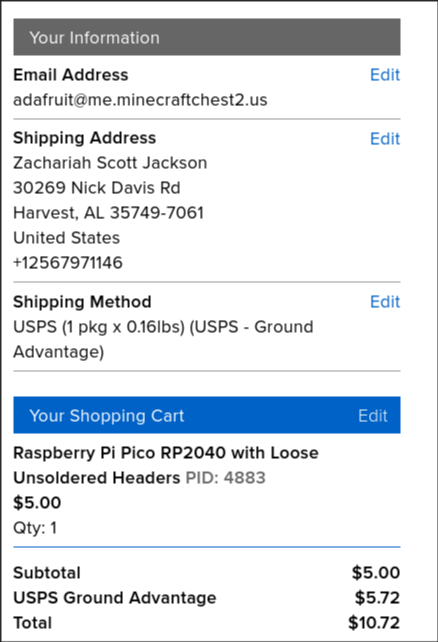
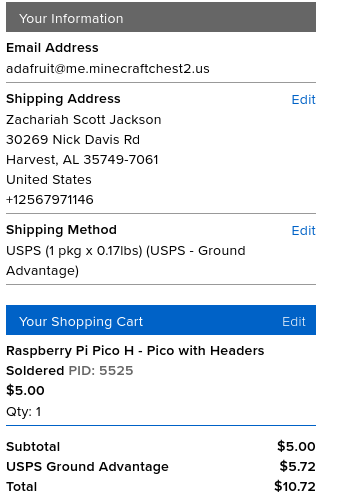
updated cart images and added heatset inserts to BOM

Changed region(s): [[0.0, 0.0, 1.0, 1.0]]

diff --git a/README.md b/README.md
@@ -8,20 +8,20 @@ To make this keyboard for your self upload the gerbers in [/PCB](/PCB) to your p
 ![case](images/case.png)
 ![keyboard PCB](images/PCB.png)
 BOM:
-| Item Count | item name                    | Unit price $ | Total Price* | Price with discounts* | Link                                                                                                                           | Running total $* | Running total with coupons*    | part number | Notes                                                             |
-|------------|------------------------------|--------------|--------------|-----------------------|--------------------------------------------------------------------------------------------------------------------------------|------------------|--------------------------------|-------------|-------------------------------------------------------------------|
-| 1          | Raspi pico                   | 5            | 5            | 5                     | https://www.adafruit.com/product/4883                                                                                          | 5.3              | 5.3                            | 1           |                                                                   |
-| 110        | 1N4148-t50A diode            | 0.0314       | 3.45         | 3.45                  | https://www.lcsc.com/product-detail/C895215.html                                                                               | 8.96             | 8.96                           | 4           | packs of 10                                                       |
-| 108        | keycaps                      | 0            | 0            | 0                     | https://www.printables.com/model/118708-simple-cherry-mx-keycap                                                                | 8.96             | 8.96                           | 6           | 1g each can print myself                                          |
-| 1          | Outemu(Gaote) Blue Switches  | 21.99        | 21.99        | 21.99                 | https://www.amazon.com/gp/product/B0CBSL2Z75                                                                                   | 32.27            | 32.27                          | 7           | pack of 108 price                                                 |
-| 1          | DUROCK PCB mount stabalizers | 18.99        | 18.99        | 18.99                 | https://www.amazon.com/gp/product/B0B2RVN19F?psc=1                                                                             | 52.4             | 52.4                           | 9           | full set                                                          |
-| 1          | PCB                          | 37.7         | 37.7         | 37.7                  | https://www.jlcpcb.com                                                                                                         | 92.36            | 92.36                          | 10          | jlcpcb price is cheaper then pcbway before shipping               |
-| 1          | case                         | 0            | 0            | 0                     | https://www.tinkercad.com/things/01yfcJqc3YT-ingenious-bigery-lappi/edit?sharecode=nC_VnJf1HsXTyW1O5QeXRIFHX63alX2Tb5NiMYivruU | 92.36            | 92.36                          | 14          | print my self/make out of cardboard                               |
-| 1          | Shipping for PCB             | 41.4         | 41.4         | 22.16                 | N/A                                                                                                                            | 136.24           | 115.85                         |             | First shipping cost is for DHL express second one is for GDL      |
-| 1          | digikey shipping and tarrifs | 5.36         | 5.36         | 5.36                  |                                                                                                                                | 141.92           | 121.53                         |             | ±$5                                                               |
-| 1          | Adafruit shipping            | 5.99         | 5.99         | 5.99                  |                                                                                                                                | 148.27           | 127.88                         |             |                                                                   |
-| 1          | amazon shipping              | 0            | 0            | 0                     |                                                                                                                                | 148.27           | 127.88                         |             | over min amount for free shipping/have a 30 trial of amazon prime |
-|            |                              |              |              |                       |                                                                                                                                |                  |                                |             |                                                                   |
-|            |                              |              |              |                       |                                                                                                                                |                  |                                |             |                                                                   |
-|            |                              |              |              |                       |                                                                                                                                |                  |                                |             |                                                                   |
-|            |                              |              |              |                       |                                                                                                                                |                  | *Rounded to two decimal places |             |                                                                   |
+| Item Count | item name                    | Unit price $ | Total Price* | Price with discounts* | Link                                                            | Running total $* | Running total with coupons*    | part number | Notes                                                             |
+|------------|------------------------------|--------------|--------------|-----------------------|-----------------------------------------------------------------|------------------|--------------------------------|-------------|-------------------------------------------------------------------|
+| 1          | Raspi pico                   | 5            | 5            | 5                     | https://www.adafruit.com/product/5525                           | 5.3              | 5.3                            | 1           |                                                                   |
+| 110        | 1N4148-t50A diode            | 0.0307       | 3.38         | 3.38                  | https://www.lcsc.com/product-detail/C895215.html                | 8.88             | 8.88                           | 2           | packs of 10                                                       |
+| 108        | keycaps                      | 0            | 0            | 0                     | https://www.printables.com/model/118708-simple-cherry-mx-keycap | 8.88             | 8.88                           | 3           | 1g each can print myself                                          |
+| 1          | Outemu(Gaote) Blue Switches  | 21.99        | 21.99        | 21.99                 | https://www.amazon.com/gp/product/B0CBSL2Z75                    | 32.19            | 32.19                          | 4           | pack of 108 price                                                 |
+| 1          | DUROCK PCB mount stabalizers | 17.99        | 17.99        | 17.99                 | https://www.amazon.com/gp/product/B0B2RVN19F?psc=1              | 51.26            | 51.26                          | 5           | full set                                                          |
+| 1          | heatset inserts              | 8.99         | 8.99         | 8.99                  | https://www.amazon.com/gp/product/B0CS6XJSSL                    | 60.79            | 60.79                          | 6           |                                                                   |
+| 1          | PCB                          | 35.3         | 35.3         | 35.3                  | https://www.jlcpcb.com                                          | 98.21            | 98.21                          | 7           | jlcpcb price is cheaper then pcbway before shipping               |
+| 1          | case                         | 0            | 0            | 0                     | N/A                                                             | 98.21            | 98.21                          | 8           | print using printing legion                                       |
+| 1          | Shipping for PCB             | 41.4         | 41.4         | 22.16                 | N/A                                                             | 142.09           | 121.7                          |             | First shipping cost is for DHL express second one is for GDL      |
+| 1          | digikey shipping and tarrifs | 5.36         | 5.36         | 5.36                  | N/A                                                             | 147.77           | 127.38                         |             | ±$5                                                               |
+| 1          | Adafruit shipping            | 5.72         | 5.72         | 5.72                  | N/A                                                             | 153.83           | 133.44                         |             |                                                                   |
+| 1          | amazon shipping              | 0            | 0            | 0                     | N/A                                                             | 153.83           | 133.44                         |             | over min amount for free shipping/have a 30 trial of amazon prime |
+|            |                              |              |              |                       |                                                                 |                  |                                |             |                                                                   |
+|            |                              |              |              |                       |                                                                 |                  | *Rounded to two decimal places |             |                                                                   |
+
